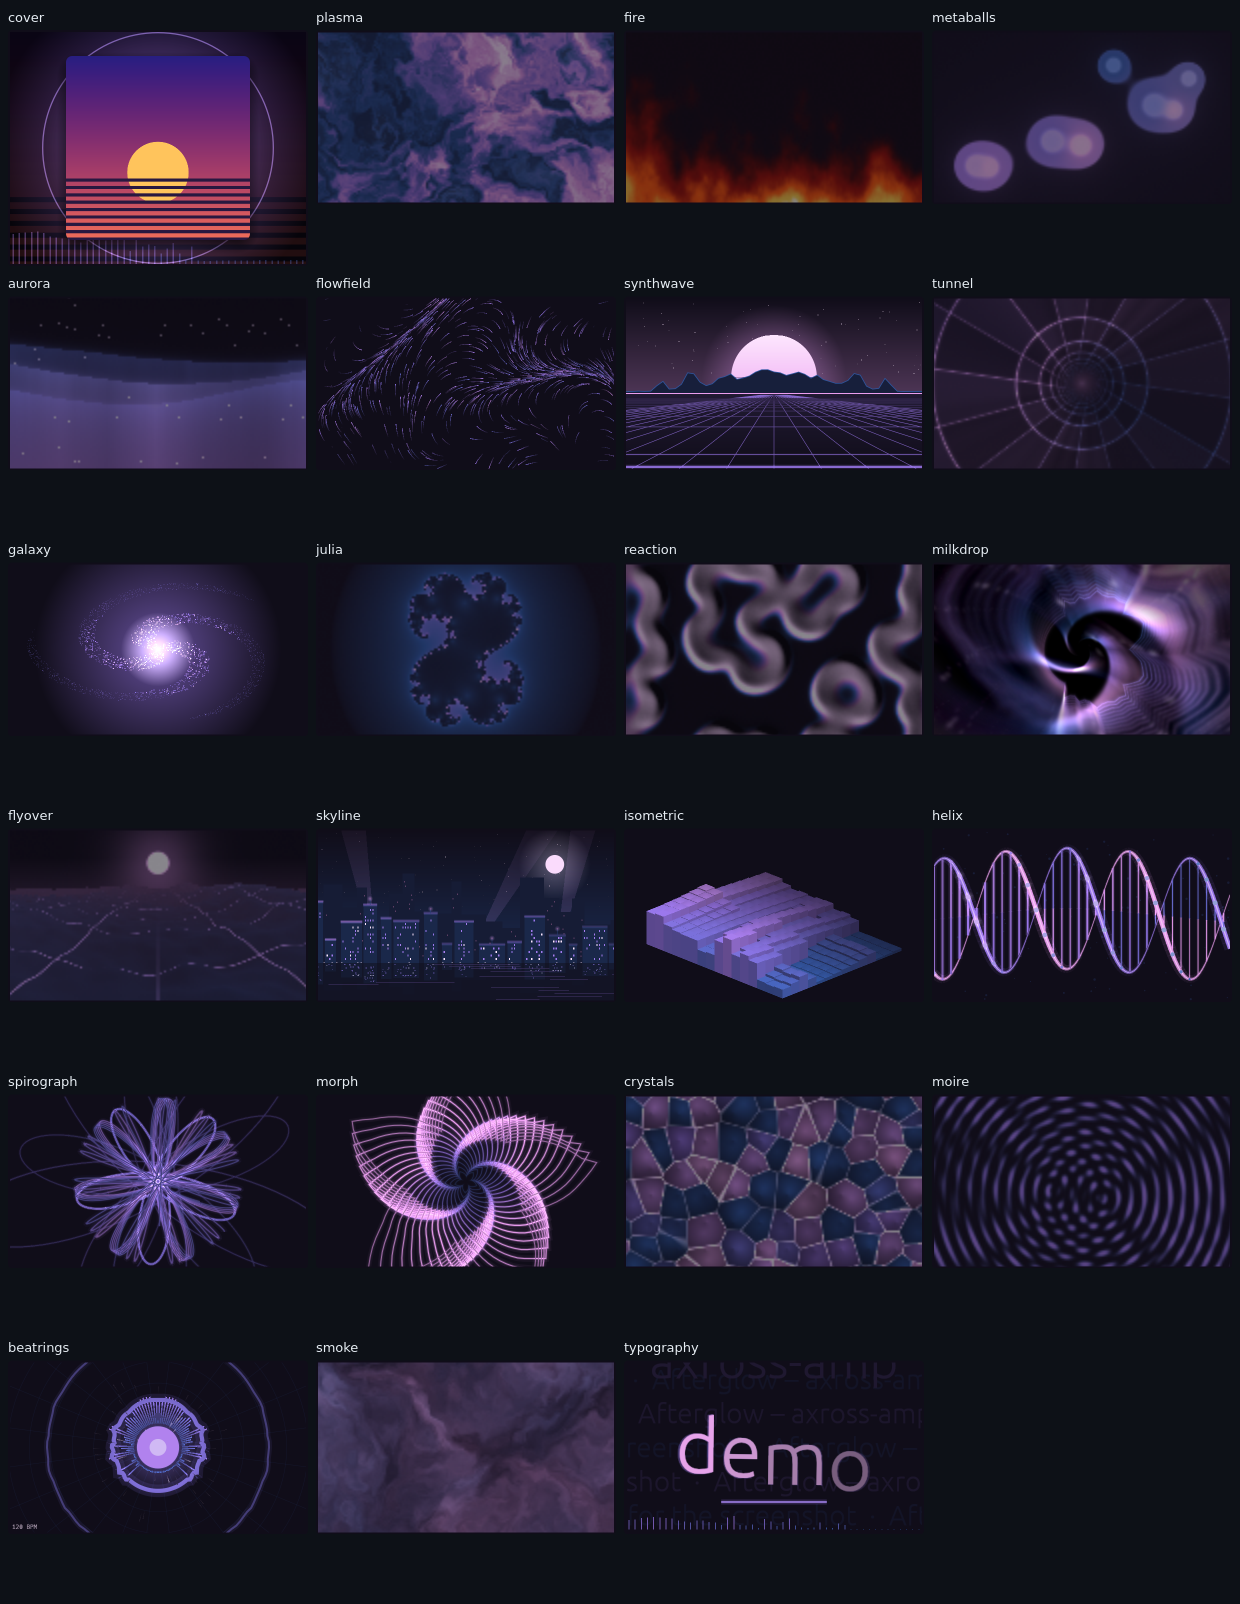
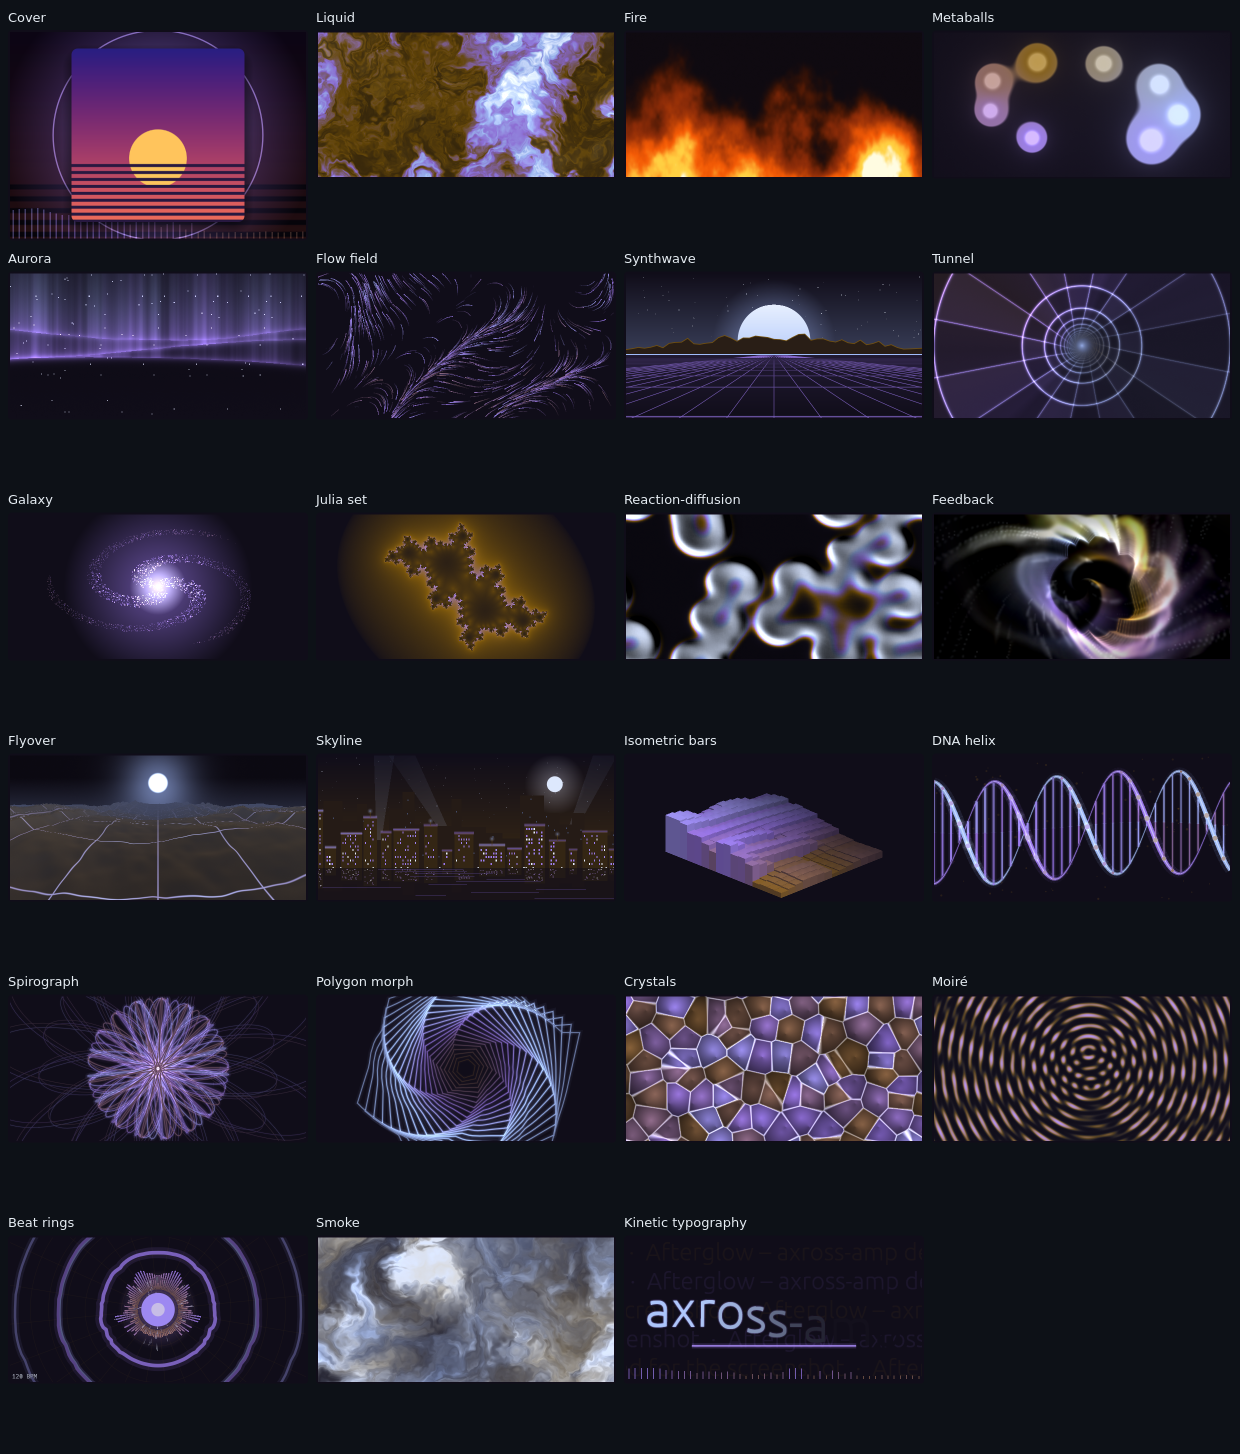
0.10.0: the README pictures taken again; the README on the flash guard, the cover, the crossfade and what is not met
- Every picture retaken: the window (drawn toolbar icons, the cover made
  at its size), the three face sheets (at full resolution, labelled with
  the menu's names, two-hue colours, aurora's curtains, the record), the
  comparison with axross's faces, the empty window, Mixer, Bluetooth.
- README: the photosensitivity section; the large picture's playlist
  and way back; the cover made at its size; the output limiter's 8x
  detector and margin; the crossfade's law and album rule; the dip on
  masters over full scale (not met); no GPU of its own measured here.
- tests/real_window.rs waits a little longer for rest in a debug build
  (the track begins a second or two late there; the picture's fall to
  rest, now guarded, overlapped the count).

diff --git a/tests/real_window.rs b/tests/real_window.rs
@@ -153,9 +153,9 @@ fn run(
     std::thread::sleep(Duration::from_secs(4));
     let secs = t0.elapsed().as_secs_f64();
     let (f1, c1) = (frames(&stats), cpu_seconds(pid));
-    // the track (13 s) has ended: 3 s for the picture to fall to rest, 3 s
-    // counted
-    std::thread::sleep(Duration::from_secs(5));
+    // the track (13 s, begun a second or two after the start in a debug
+    // build) has ended: 4 s for the picture to fall to rest, 3 s counted
+    std::thread::sleep(Duration::from_secs(7));
     let (c2, t2) = (cpu_seconds(pid), Instant::now());
     std::thread::sleep(Duration::from_secs(3));
     let idle = (cpu_seconds(pid) - c2) / t2.elapsed().as_secs_f64();

diff --git a/README.md b/README.md
@@ -27,12 +27,21 @@ picture is made by `AMP_DEMO_TRACK=… cargo test --test ui -- --ignored`.</sub>
   for bit where it holds nothing back), holding the peaks at -0.3 dBTP wherever the
   sound may go over full scale: a track resampled to the output's rate (its peaks
   between samples become samples), two tracks summed in a crossfade, the equalizer
-  raising a band. Both find the peaks by BS.1770's 4x filter and aim 0.35 dB lower, as
-  that filter reads broadband sound low (the tests measure at 8x). An optional
-  **crossfade** (1 to 12 s, off by default; equal power) fades a track into the next -
-  never inside an album, which stays gapless (an album by its tags, or untagged files
-  of one folder in order: a live album's rips), each track at its own ReplayGain; the
-  meters count the new track from the fade's middle. Optionally a track chosen while
+  raising a band. The output's finds the peaks between samples 8x oversampled (a
+  64-tap windowed sinc; it reads clipped, bright masters right where BS.1770's 4x
+  filter reads them up to 0.8 dB low), aims 0.5 dB under its ceiling, holds from
+  0.3 s before a crossfade, and where it holds nothing it neither looks nor scans:
+  its cost is a copy. An optional **crossfade** (1 to 12 s, off by default) fades a
+  track into the next - its law following how alike the two are (equal power for
+  unrelated tracks, equal amplitude for alike ones: the level stays) - never inside
+  an album, which stays gapless: tagged, the album (and album artist) decides;
+  untagged, two files of one folder numbered one after the other ("01 ...", "02
+  ..." or track numbers) are an album's; a flat folder of unrelated files fades. Each
+  track keeps its own ReplayGain; the meters count the new track from the fade's
+  middle. Masters that themselves go 3-4 dB over full scale between their samples
+  are held at the ceiling in a fade at the cost of ~3 dB of level there (a gain
+  limiter cannot do otherwise without clipping; outside the fade they play bit for
+  bit). Optionally a track chosen while
   another plays fades in over it for a second. The output callback takes no lock and
   allocates nothing (a lock-free ring;
   a test counts its allocations through a real device); files are read and decoded
@@ -54,12 +63,15 @@ picture is made by `AMP_DEMO_TRACK=… cargo test --test ui -- --ignored`.</sub>
   as a short playlist leaves room for - and below it the playlist (two lines a track,
   the playing one with its cover and bars that move with the sound) or the equalizer
   (a dB scale, each band filled from its 0 dB line). The card's cover is 120 to 200
-  px as the window allows, and the cover is kept up to 1024 px for it and for the
-  "Cover" face, which makes the cover the picture, glowing with the bass. The
-  pictures' colours come from the cover too, when it has some (or a scheme of
-  axross's, below): not its colours mixed (that made browns and olive greys) but a
-  ramp designed round its main hue in OKLCH - lightness rising evenly, a floor of
-  chroma - and the pictures are dithered (no bands in slow gradients). Nothing to play: a drop zone with
+  px as the window allows; the cover (kept up to 1024 px) is made the size it is
+  shown at, in pixels, on a thread of its own by a Lanczos filter and cropped to a
+  square (egui's renderer makes no mipmaps: made smaller by the GPU it aliased).
+  The "Cover" face makes the cover the picture, glowing with the bass (without a
+  cover, a record in the scheme's colours). The pictures' colours come from the
+  cover too, when it has some (or a scheme of axross's, below): not its colours
+  mixed (that made browns and olive greys) but a ramp designed in OKLCH round its
+  main hue - and its second, where it has one - lightness rising evenly, a floor of
+  chroma; the pictures are dithered (no bands in slow gradients). Nothing to play: a drop zone with
   Open files, Open folder, Add a URL and the keys. Paused, the picture stands still;
   changing faces fades one into the next.
 - **Visualizations**, 49 of them in three groups:
@@ -105,7 +117,9 @@ picture is made by `AMP_DEMO_TRACK=… cargo test --test ui -- --ignored`.</sub>
   pictures move alike at any frame rate. In axross's colour schemes (Classic, Fire,
   Ice, Neon, Mono, Follow the theme, Custom - edited here), with its options (bars,
   smoothing, peak fall, frame rate). A click shows the next face (Shift+V the one
-  before), a double-click makes it large (its title kept above it), F11 full screen, a
+  before), a double-click makes it large (its title kept above it, with "Show the
+  playlist" - the list under the picture - and "Normal size"; Escape too), F11 full
+  screen, a
   right click its menu with every face at a glance; "Off" draws nothing.
 - **Playlist**: shuffle (Previous goes back the way it came), repeat (all / one), a
   filter (Ctrl+F), sorting (title, artist, album with its discs and track numbers,
@@ -268,7 +282,10 @@ changes it. HLS radio (`.m3u8` segment lists) is not played. On a software rende
 the whole window is drawn by the CPU (llvmpipe: 0.06 to 0.25 s of a core a frame,
 more as the window grows): the frame rate is lowered to stay under a core, so a
 large window on a software renderer moves at a few frames a second
-(`tests/real_window.rs` measures it); at rest it costs about nothing.
+(`tests/real_window.rs` measures it); at rest it costs about nothing. There was no
+GPU of its own to measure on here: the GPU's cost of the faces
+(`--ignored` in `tests/faces.rs`) has only been measured on Mesa's lavapipe and
+llvmpipe, by the clock.
 The beat is found from the onsets; on syncopated music the tempo may read half or
 double. The notes below about C2 are not told apart from their neighbours.
 
